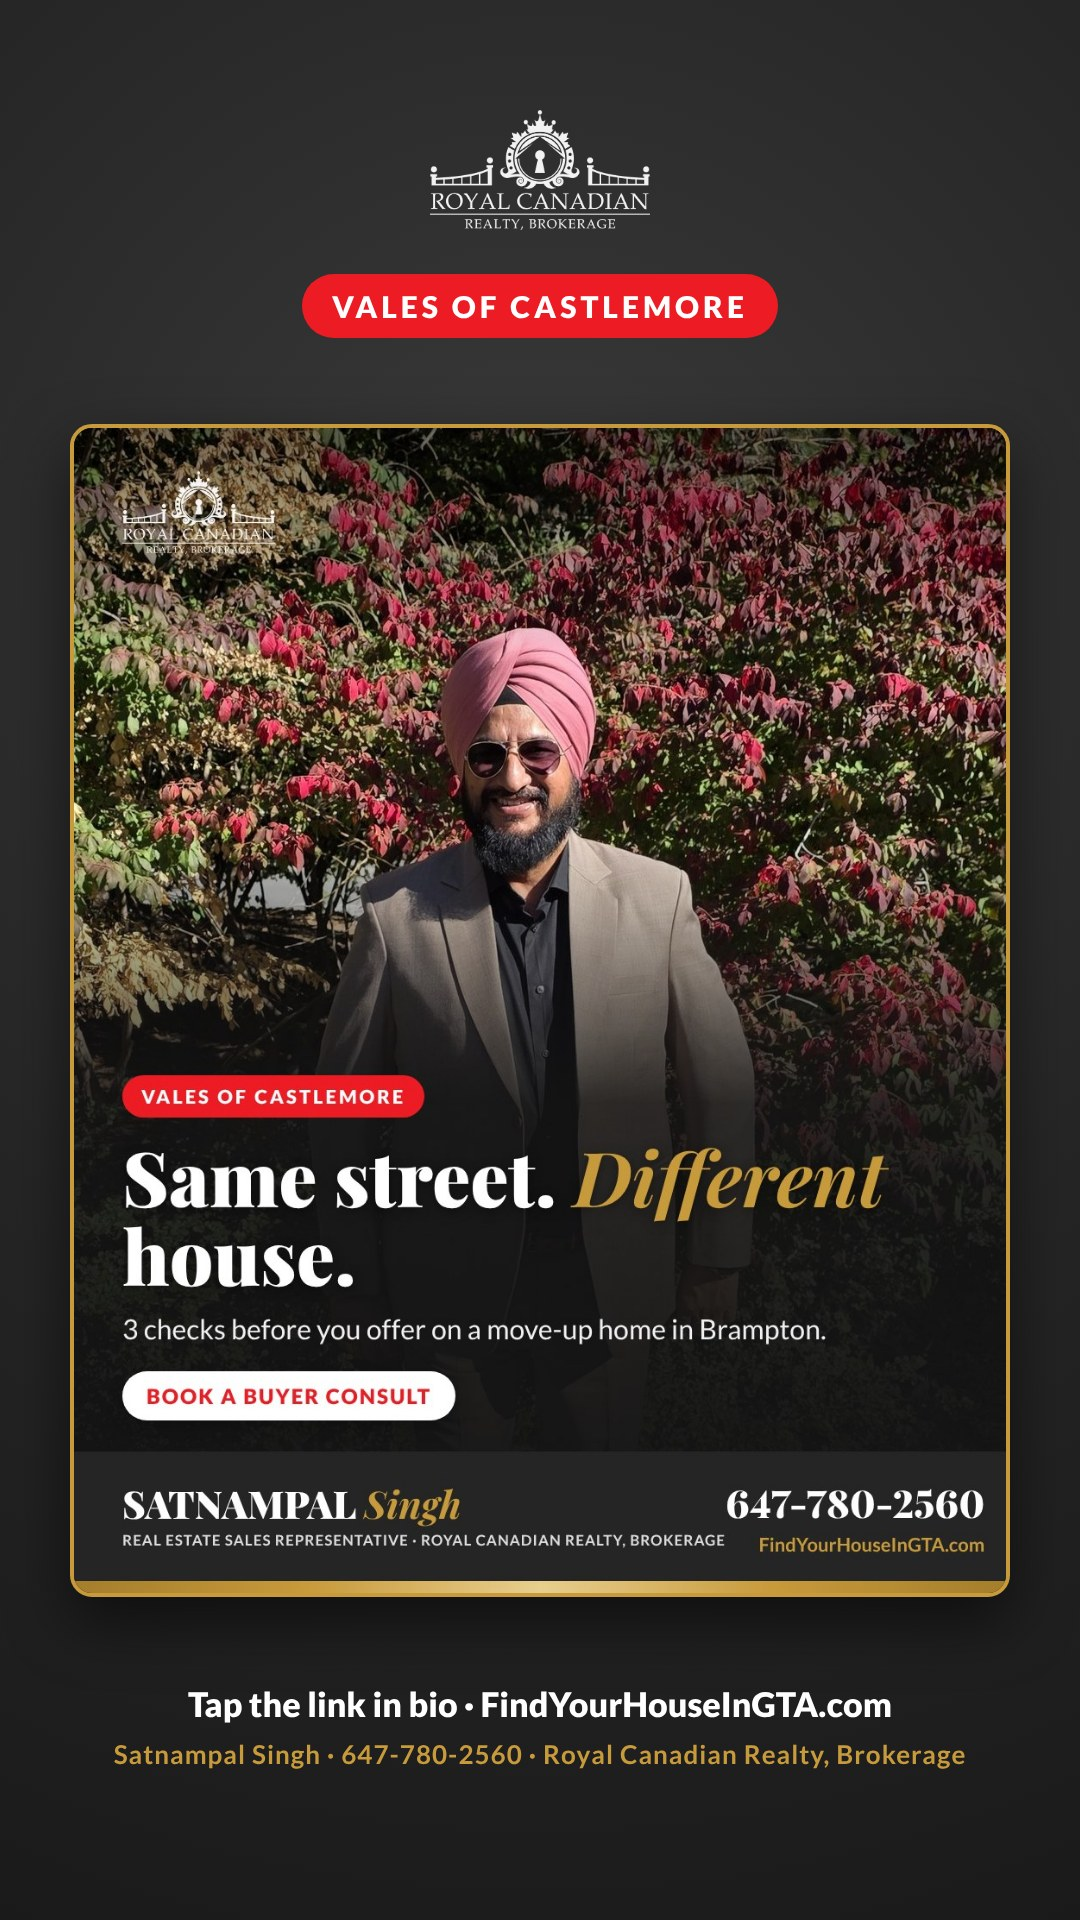
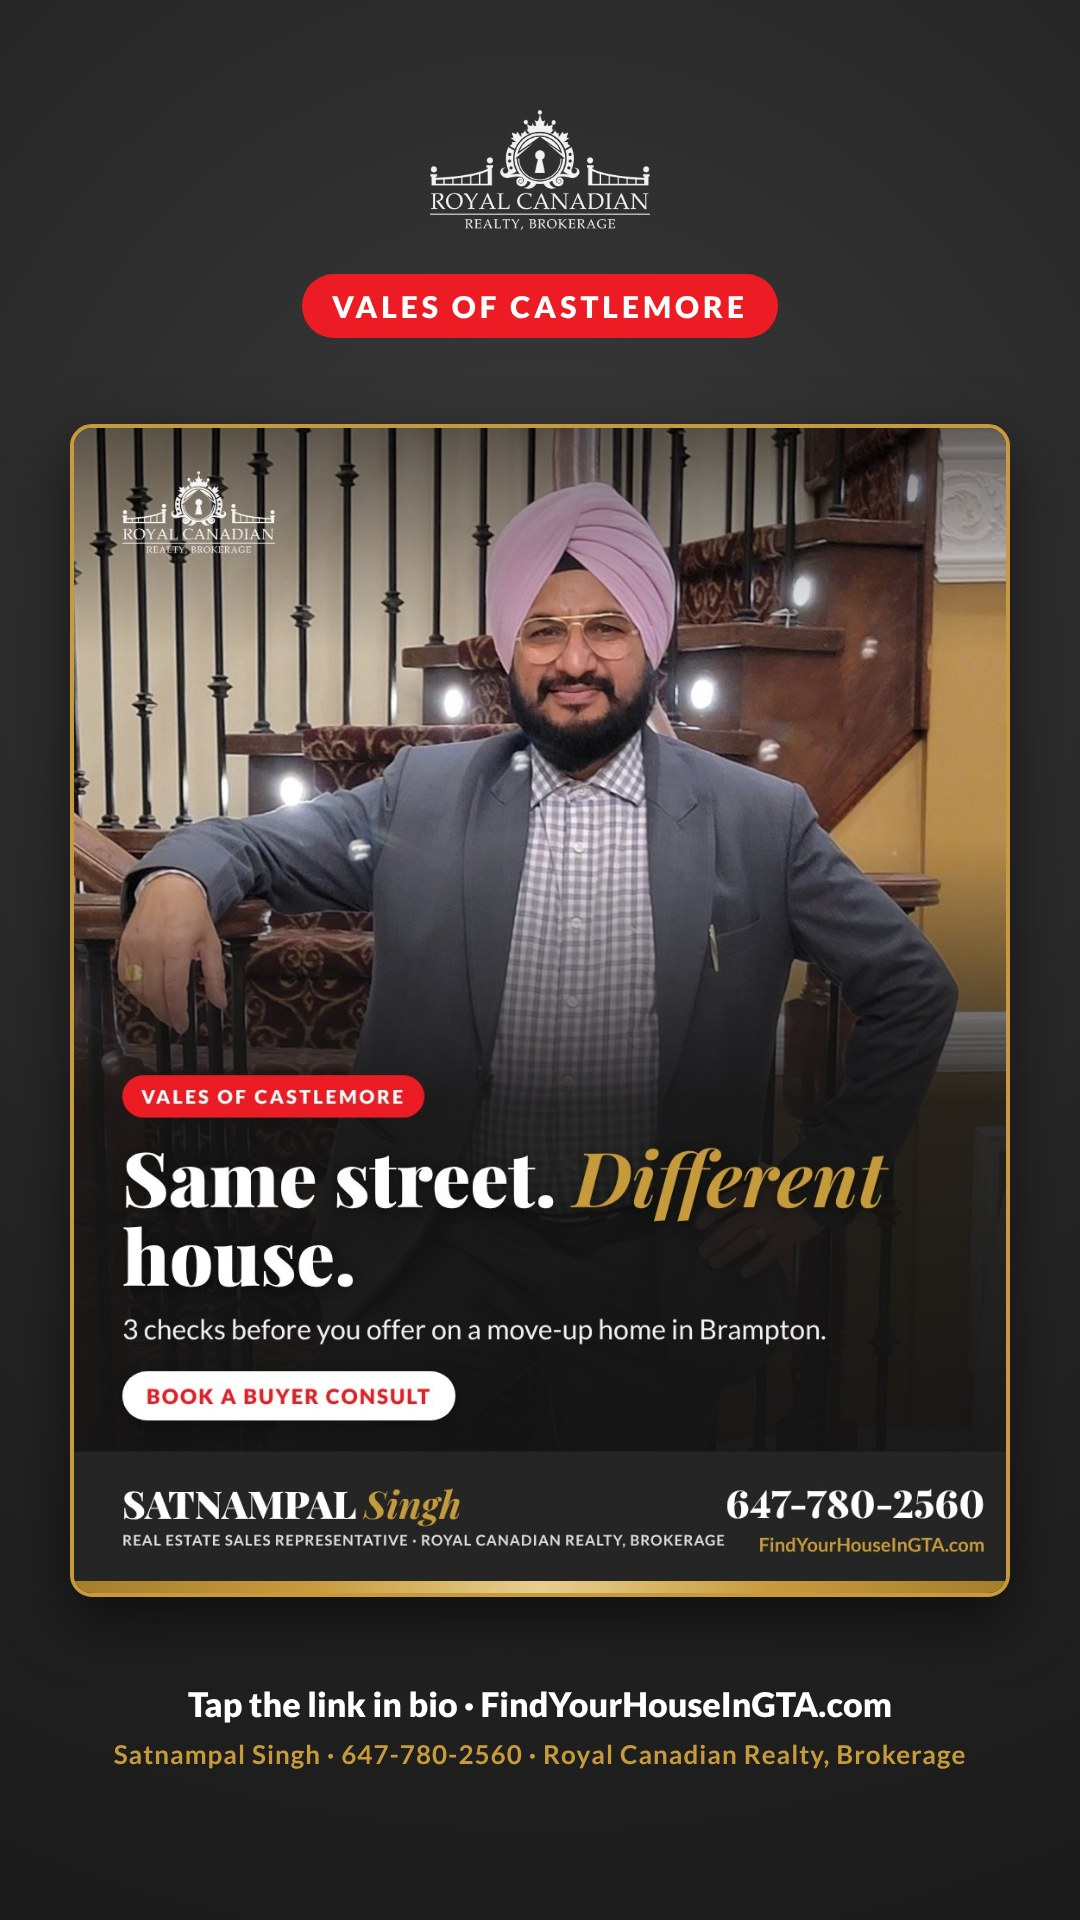
2026-11-06: swap photo to staircase-pose on request; 11:30 retry failed (Metricool limit)

Changed region(s): [[0.0611, 0.2188, 0.9472, 0.5938]]

diff --git a/posts/log.md b/posts/log.md
@@ -6,4 +6,4 @@ One line per post: date | theme | headline | GBP/FB/IG/TikTok status
 2026-11-03 | Brampton neighbourhood spotlight (Sandringham-Wellington) | Starter home in Sandringham? | https://www.findyourhouseingta.com/ | scheduled 12:00 (run started 11:49, after the 10:00 slot)
 2026-11-04 | GTA market update (TRREB October 2026) | Buyers have the edge (stats layout) | https://www.findyourhouseingta.com/blog.php | scheduled 10:00
 2026-11-05 | Mortgage education (Ontario land transfer tax + first-time buyer refund) | first-time buyers | The closing cost buyers forget | https://satnampalsingh-social-images.github.io/Social-Images/blog/ | layout:infographic (swapped from classic at 09:10 on request) | photo:luxury-home.jpg | feed + IG/FB story scheduled 10:00
-2026-11-06 | Neighbourhood Spotlight | move-up buyers / growing families | Same street. Different house. (Vales of Castlemore) | https://www.findyourhouseingta.com/blog.php | layout:photo (swapped from split at 08:55 on request) | photo:autumn-suit-full.jpg | area:Vales of Castlemore | feed + IG/FB story scheduled 10:00 - ALL FAILED at 10:00: Metricool "You have reached your Metricool account limit."
+2026-11-06 | Neighbourhood Spotlight | move-up buyers / growing families | Same street. Different house. (Vales of Castlemore) | https://www.findyourhouseingta.com/blog.php | layout:photo (swapped from split at 08:55 on request) | photo:staircase-pose.jpg (changed from autumn-suit-full.jpg on request) | area:Vales of Castlemore | feed + IG/FB story scheduled 10:00 - ALL FAILED at 10:00 and again at 11:30: Metricool "You have reached your Metricool account limit."

diff --git a/campaigns/2026-11-06.md b/campaigns/2026-11-06.md
@@ -90,7 +90,7 @@ Automatic story (stories/2026-11-06.jpg, top line "VALES OF CASTLEMORE") schedul
 - **Thumbnail text:** "DON'T OFFER YET"
 
 ## 11. Creative direction and dimensions
-- Layout today: **photo** (full-bleed autumn-suit-full.jpg, headline "Same street. Different house."). Swapped at 08:55 from the split layout (listing-gesture.jpg) on request. The autumn foliage suits November and differs from yesterday's infographic.
+- Layout today: **photo** (full-bleed staircase-pose.jpg (changed from autumn-suit-full.jpg on request), headline "Same street. Different house."). Swapped at 08:55 from the split layout (listing-gesture.jpg) on request. The autumn foliage suits November and differs from yesterday's infographic.
 - Feed 1080x1350 · Story/Reels/TikTok/Shorts 1080x1920 · YouTube thumbnail 1280x720 · GBP 1200x900.
 
 ## 12. SEO keywords and hashtags
